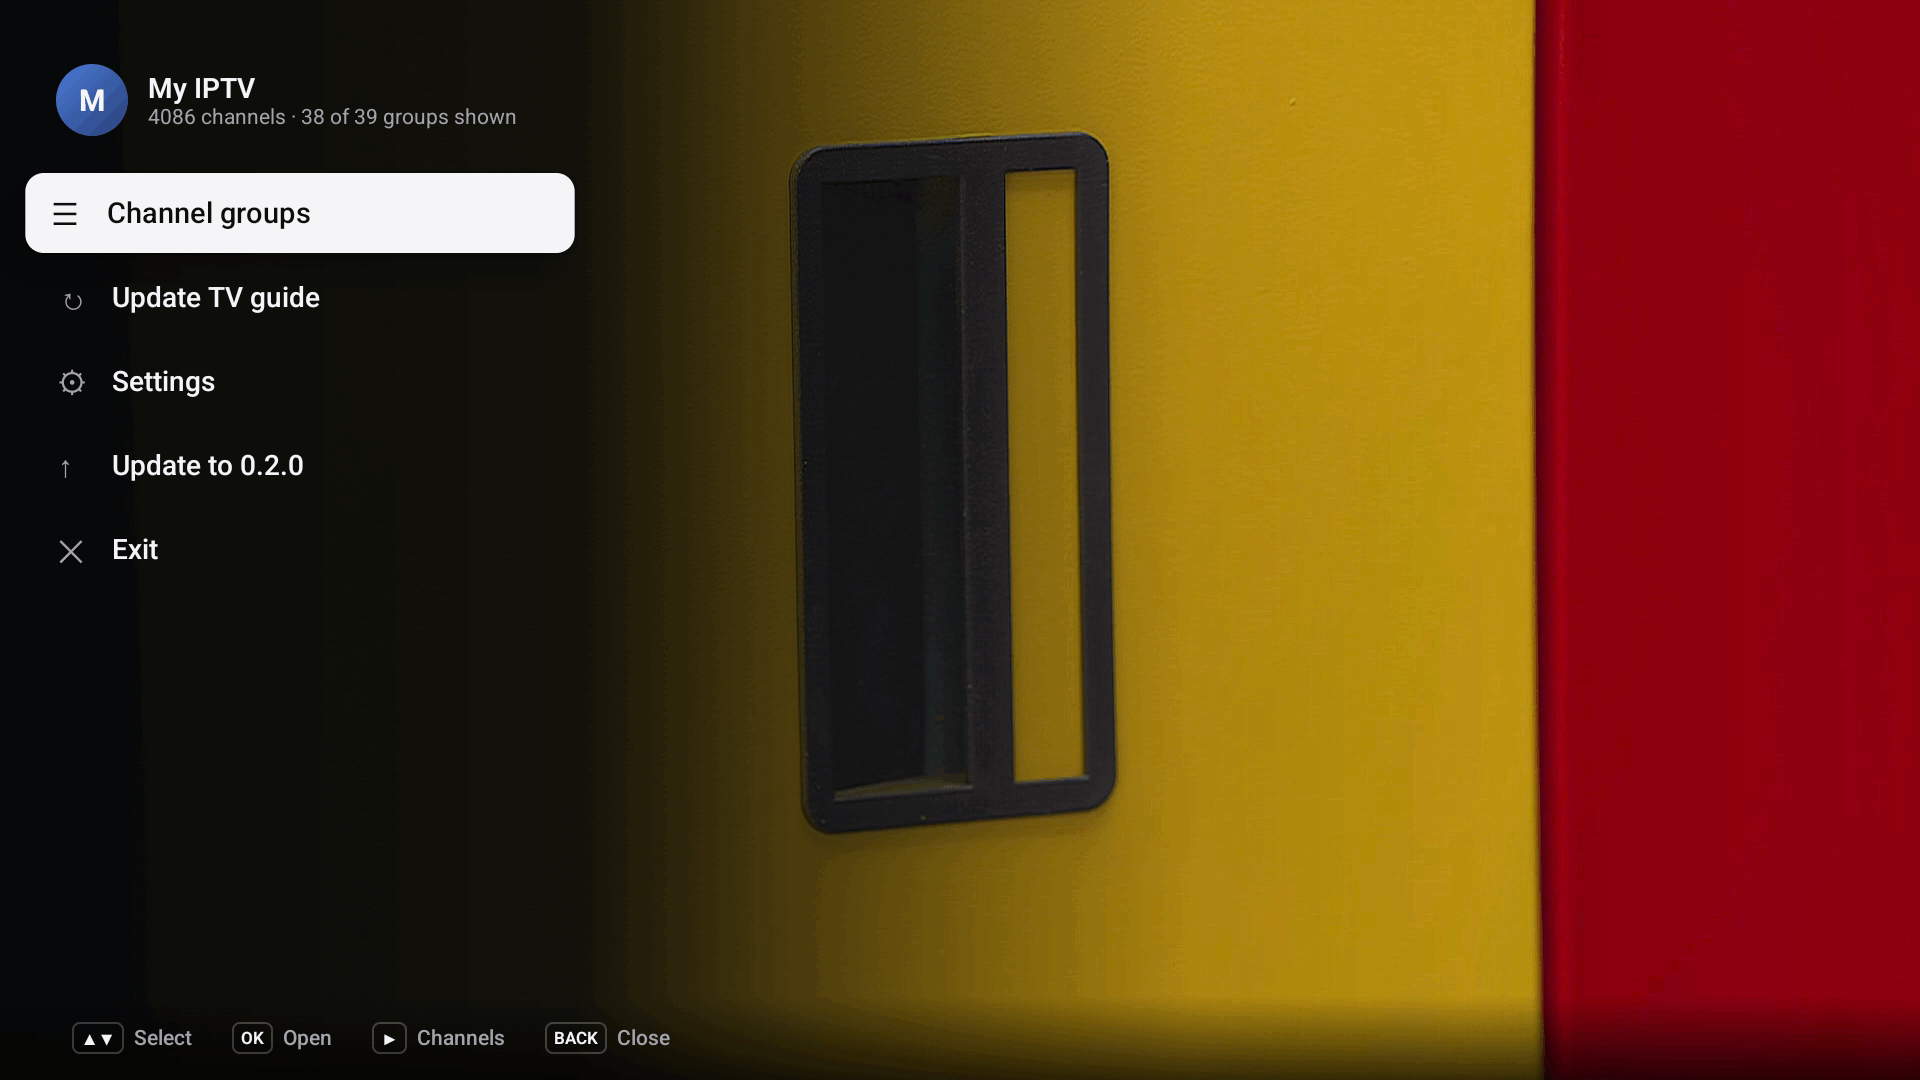
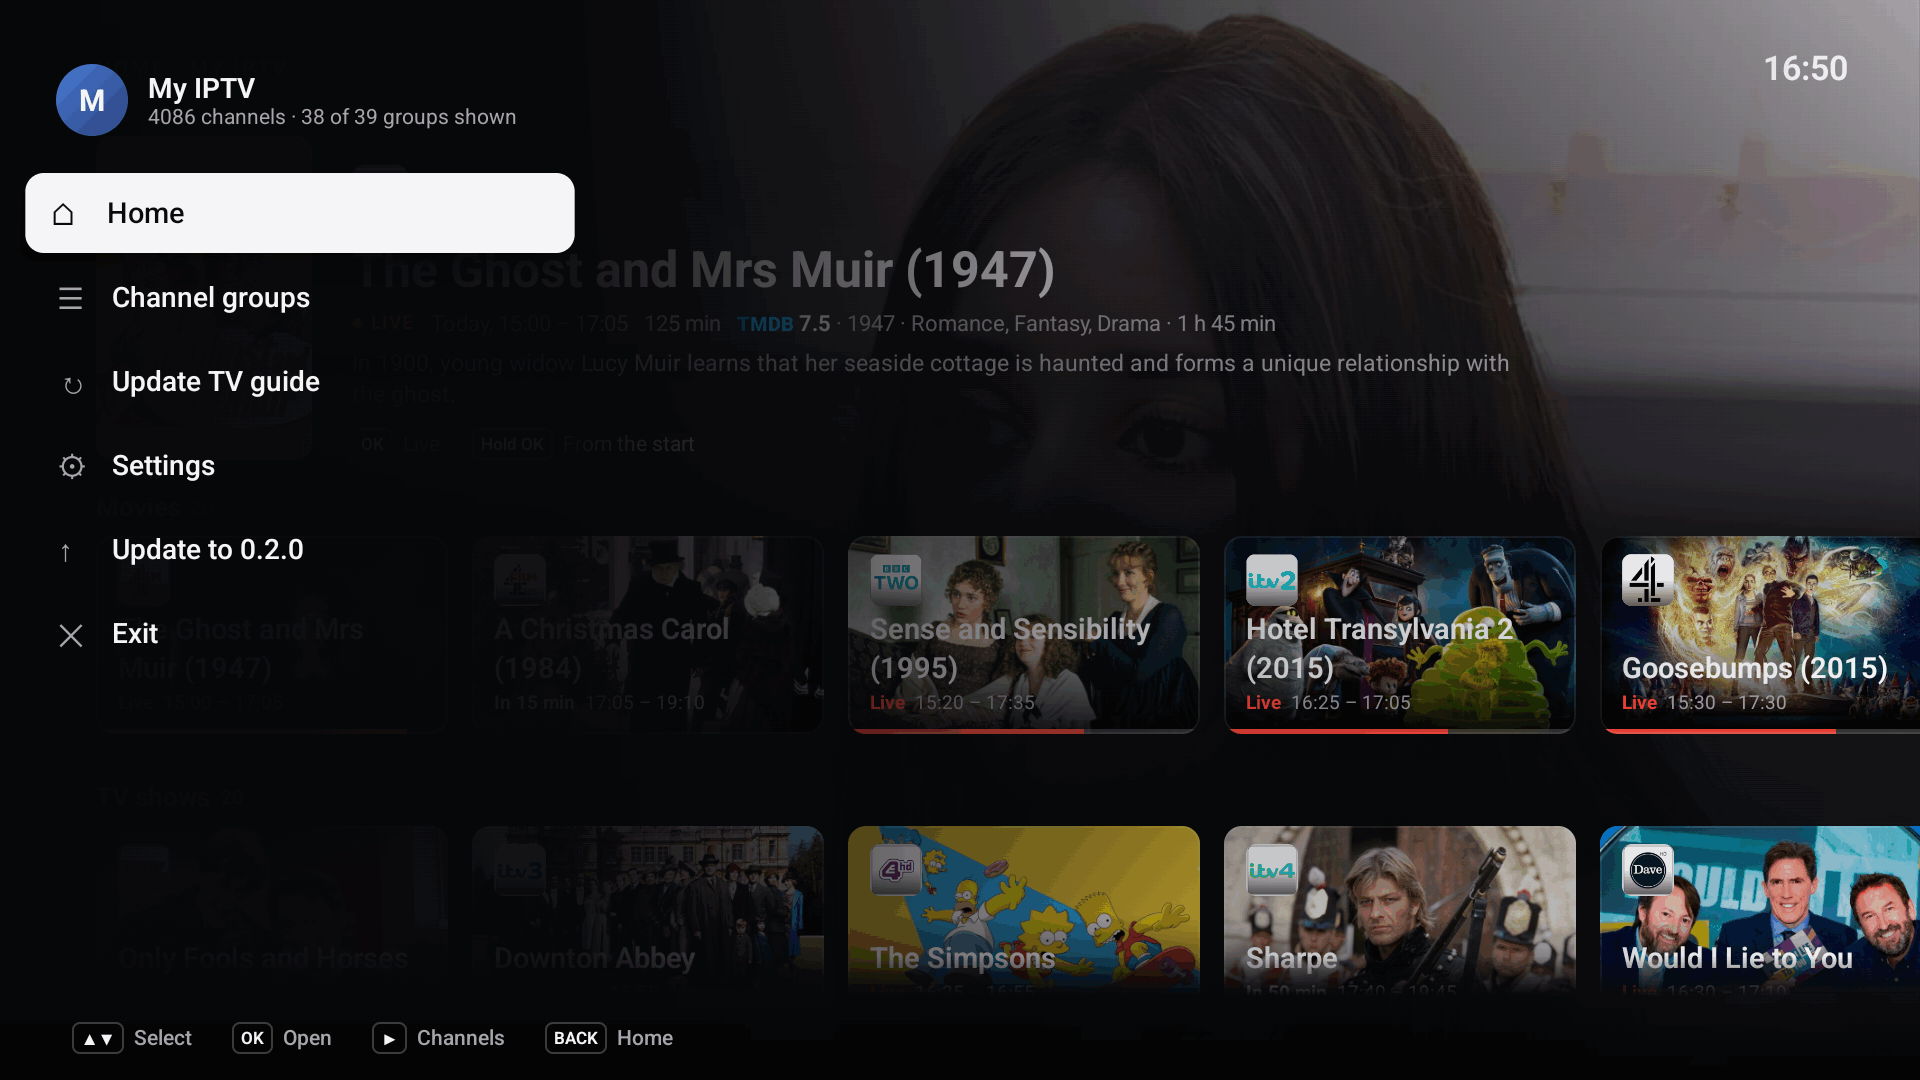
Tests for Home, TMDB matching and deep links; README and screenshots
Unit tests: filler detection and title normalization, the On now, Just
started and Starting soon picks, merging rows while Home is open, deep
link parsing and round trips (ids with slashes, spaces, Cyrillic, %),
and more TMDB cases (an unmarked film title, a show in a film-length
slot).

README: Home, its sources, cards and keys, the start option, TMDB and
the Android TV home screen; BACK now ends at Home; the TMDB key for
local builds and the TIVIBRO_TMDB_TOKEN release secret; TMDB's
attribution. Screenshots of Home (English UI, UK and US channels as
sources), its sources, the main menu with Home, and the TiViBro row on
the Android TV home screen.

diff --git a/app/src/test/java/dev/romirom/tivibro/home/HomeTest.kt b/app/src/test/java/dev/romirom/tivibro/home/HomeTest.kt
@@ -1,0 +1,107 @@
+package dev.romirom.tivibro.home
+
+import dev.romirom.tivibro.data.Channel
+import dev.romirom.tivibro.data.MIN
+import dev.romirom.tivibro.data.Programme
+import org.junit.Assert.assertEquals
+import org.junit.Assert.assertFalse
+import org.junit.Assert.assertTrue
+import org.junit.Test
+
+class HomeTest {
+    private val t = 1_761_900_000_000L
+    private fun ch(id: String) = Channel(id, 1, "Channel $id", "UK", null, 7, "http://x/$id", false)
+    private fun p(fromMin: Int, lenMin: Int, title: String) = Programme(t + fromMin * MIN, t + (fromMin + lenMin) * MIN, title, "")
+
+    // ------------------------------------------------------------------ filler
+
+    @Test fun fillerIsRecognised() {
+        for (s in listOf("Реклама", "РЕКЛАМА", "Телемагазин «Мир покупок»", "Teleshopping", "Paid Programming", "Перерыв в вещании",
+            "Профілактика", "Test card F", "Настроечная таблица", "Нет программы", "No information", "Анонс", "Werbung", "", " - ")) {
+            assertTrue(s, Filler.isFiller(s))
+        }
+    }
+
+    @Test fun realProgrammesAreNotFiller() {
+        for (s in listOf("Новини", "Тест-драйв", "The Test", "Реклама и жизнь: документальный фильм", "Shopping Mall Heist",
+            "Friends", "Перерва на каву", "Анонимный звонок")) {
+            assertFalse(s, Filler.isFiller(s))
+        }
+    }
+
+    @Test fun titlesNormalize() {
+        assertEquals("новости", normTitle("Новости (16+)"))
+        assertEquals("елки 2", normTitle("Ёлки-2"))
+        assertEquals("the office", normTitle("  The   Office [HD] "))
+    }
+
+    // ------------------------------------------------------------------ rows
+
+    @Test fun nowSkipsFillerAndKeepsSourceOrder() {
+        val slots = listOf(
+            Slot(ch("a"), listOf(p(-10, 30, "News"))),
+            Slot(ch("b"), listOf(p(-5, 20, "Реклама"))),
+            Slot(ch("c"), listOf(p(5, 30, "Later"))),
+            Slot(ch("d"), listOf(p(-50, 120, "Film"))),
+        )
+        assertEquals(listOf("News", "Film"), HomePicks.now(slots, t, 10).map { it.p.title })
+    }
+
+    @Test fun startedWantsArchiveLengthAndRecentStart() {
+        val slots = listOf(
+            Slot(ch("a"), listOf(p(-5, 60, "Fresh"))),
+            Slot(ch("b"), listOf(p(-30, 60, "Too old"))),
+            Slot(ch("c"), listOf(p(-3, 10, "Too short"))),
+            Slot(ch("d"), listOf(p(-12, 45, "No archive"))),
+            Slot(ch("e"), listOf(p(-8, 90, "Fresh"))), // the same title elsewhere: once
+            Slot(ch("f"), listOf(p(0, 60, "Just now"))), // under a minute: not yet
+            Slot(ch("g"), listOf(p(-15, 50, "Earlier"))),
+        )
+        val got = HomePicks.started(slots, t, { it.id != "d" }, 10)
+        assertEquals(listOf("Fresh", "Earlier"), got.map { it.p.title })
+        assertEquals("a", got[0].ch.id)
+    }
+
+    @Test fun soonIsWithinHalfAnHourSoonestFirst() {
+        val slots = listOf(
+            Slot(ch("a"), listOf(p(-20, 40, "Now A"), p(20, 30, "Soon A"))),
+            Slot(ch("b"), listOf(p(-10, 15, "Now B"), p(5, 30, "Soon B"))),
+            Slot(ch("c"), listOf(p(-10, 60, "Now C"), p(50, 30, "Too late"))),
+            Slot(ch("d"), listOf(p(-10, 12, "Now D"), p(2, 30, "Реклама"))),
+        )
+        assertEquals(listOf("Soon B", "Soon A"), HomePicks.soon(slots, t, 10).map { it.p.title })
+    }
+
+    @Test fun slotFindsTheProgrammeOnAir() {
+        val s = Slot(ch("a"), listOf(p(-60, 30, "A"), p(-30, 30, "B"), p(0, 30, "C"), p(40, 30, "D")))
+        assertEquals("C", s.at(t)?.title)
+        assertEquals("B", s.at(t - MIN)?.title)
+        assertEquals(null, s.at(t + 35 * MIN))
+    }
+
+    // ------------------------------------------------------------------ merging while Home is open
+
+    private fun card(kind: HomeKind, id: String, title: String = id) = HomeCard("$kind:$id", kind, ch(id), p(0, 30, title))
+
+    @Test fun mergeKeepsPlacesAndAppendsNewCards() {
+        val old = listOf(HomeRow(HomeKind.NOW, listOf(card(HomeKind.NOW, "a"), card(HomeKind.NOW, "b"))))
+        val new = listOf(
+            HomeRow(HomeKind.SOON, listOf(card(HomeKind.SOON, "x"))),
+            HomeRow(HomeKind.NOW, listOf(card(HomeKind.NOW, "c"), card(HomeKind.NOW, "b", "B updated"), card(HomeKind.NOW, "a"))),
+        )
+        val m = HomeRows.merge(old, new, keep = null)
+        assertEquals(listOf(HomeKind.NOW, HomeKind.SOON), m.map { it.kind })
+        assertEquals(listOf("a", "b", "c"), m[0].cards.map { it.ch.id })
+        assertEquals("B updated", m[0].cards[1].p.title)
+    }
+
+    @Test fun mergeKeepsTheFocusedCardThatWentAway() {
+        val old = listOf(HomeRow(HomeKind.STARTED, listOf(card(HomeKind.STARTED, "a"), card(HomeKind.STARTED, "b"))))
+        val new = listOf(HomeRow(HomeKind.STARTED, listOf(card(HomeKind.STARTED, "a"))))
+        assertEquals(listOf("a", "b"), HomeRows.merge(old, new, keep = "STARTED:b")[0].cards.map { it.ch.id })
+        assertEquals(listOf("a"), HomeRows.merge(old, new, keep = null)[0].cards.map { it.ch.id })
+        // a whole row gone: only the focused card stays, until focus leaves it
+        assertEquals(listOf("b"), HomeRows.merge(old, emptyList(), keep = "STARTED:b").single().cards.map { it.ch.id })
+        assertTrue(HomeRows.merge(old, emptyList(), keep = null).isEmpty())
+    }
+}

diff --git a/app/src/test/java/dev/romirom/tivibro/tvhome/DeepLinkTest.kt b/app/src/test/java/dev/romirom/tivibro/tvhome/DeepLinkTest.kt
@@ -1,0 +1,49 @@
+package dev.romirom.tivibro.tvhome
+
+import org.junit.Assert.assertEquals
+import org.junit.Assert.assertNull
+import org.junit.Test
+
+class DeepLinkTest {
+    @Test fun home() {
+        assertEquals(DeepLink.Home, DeepLink.parse("tivibro://home"))
+        assertEquals(DeepLink.Home, DeepLink.parse("TIVIBRO://HOME"))
+        assertNull(DeepLink.parse("tivibro://home/extra"))
+    }
+
+    @Test fun live() {
+        assertEquals(DeepLink.Live("1", "ch1014"), DeepLink.parse("tivibro://live/1/ch1014"))
+        assertNull(DeepLink.parse("tivibro://live/1"))
+        assertNull(DeepLink.parse("tivibro://live/1/ch1/more"))
+    }
+
+    @Test fun archive() {
+        assertEquals(DeepLink.Archive("1", "ch5", 1761900000000, 540000), DeepLink.parse("tivibro://archive/1/ch5/1761900000000?position=540000"))
+        assertEquals(DeepLink.Archive("1", "ch5", 1761900000000, 0), DeepLink.parse("tivibro://archive/1/ch5/1761900000000"))
+        assertNull(DeepLink.parse("tivibro://archive/1/ch5/notanumber"))
+        assertNull(DeepLink.parse("tivibro://archive/1/ch5/-5"))
+        assertNull(DeepLink.parse("tivibro://archive/1/ch5/1761900000000?position=abc"))
+        assertNull(DeepLink.parse("tivibro://archive/1/ch5/1761900000000?position=-1"))
+    }
+
+    @Test fun anythingElseIsRejected() {
+        assertNull(DeepLink.parse(null))
+        assertNull(DeepLink.parse(""))
+        assertNull(DeepLink.parse("https://home"))
+        assertNull(DeepLink.parse("tivibro://settings"))
+        assertNull(DeepLink.parse("tivibro://live/1/" + "x".repeat(300)))
+        assertNull(DeepLink.parse("tivibro://live/1/%"))
+        assertNull(DeepLink.parse("not a uri at all"))
+    }
+
+    @Test fun idsSurviveTheRoundTrip() {
+        // channel ids are tvg-ids: any string, made-up ones start with «n:»
+        for (l in listOf(
+            DeepLink.Live("a1b2", "n:BBC One HD"),
+            DeepLink.Live("7", "ch/with slash & ampersand"),
+            DeepLink.Archive("7", "Канал+1", 1761900000000, 1234),
+            DeepLink.Archive("7", "100%", 1761900000000, 0),
+            DeepLink.Home,
+        )) assertEquals(l, DeepLink.parse(l.uri()))
+    }
+}

diff --git a/README.md b/README.md
@@ -10,6 +10,11 @@ back to English.
 
 ## Features
 
+- **Home.** A glass page over the playing video: continue watching, what is on now, what has just started (watch it
+  from the beginning), what starts soon, and movies and TV shows with posters, ratings and genres from TMDB. You pick
+  which groups or channels feed it. See [Home](#home).
+- **On the Android TV home screen.** A «TiViBro» channel with what to continue and what is on now, and unfinished
+  archive programmes in Play Next (Android 8 and newer).
 - **Catch-up first.** Pause live TV, rewind, jump to the start of the current programme, or open any programme from
   the archive in the guide. Seeking speeds up the longer you hold the key (10 s, 30 s, 1 min, 5 min).
 - **Continue watching.** Archive programmes you leave halfway are remembered per playlist. Resume, restart, remove
@@ -30,12 +35,24 @@ back to English.
 
 <table>
   <tr>
+    <td width="50%"><a href="docs/screenshots/home.png"><img src="docs/screenshots/home.png" alt="Home"></a><br>Home over the playing video: continue watching, on now</td>
+    <td width="50%"><a href="docs/screenshots/home-just-started.png"><img src="docs/screenshots/home-just-started.png" alt="Home: just started"></a><br>Just started: OK plays it from the beginning</td>
+  </tr>
+  <tr>
+    <td><a href="docs/screenshots/home-movies.png"><img src="docs/screenshots/home-movies.png" alt="Home: movies and TV shows"></a><br>Movies and TV shows on your channels, with TMDB posters and ratings</td>
+    <td><a href="docs/screenshots/home-sources.png"><img src="docs/screenshots/home-sources.png" alt="Home sources"></a><br>Home sources: the groups Home takes its programmes from</td>
+  </tr>
+  <tr>
+    <td><a href="docs/screenshots/home-source-channels.png"><img src="docs/screenshots/home-source-channels.png" alt="Home sources: channels of a group"></a><br>Or single channels of a group</td>
+    <td><a href="docs/screenshots/android-tv-home.png"><img src="docs/screenshots/android-tv-home.png" alt="TiViBro on the Android TV home screen"></a><br>The TiViBro channel on the Android TV home screen</td>
+  </tr>
+  <tr>
     <td width="50%"><a href="docs/screenshots/channel-list.png"><img src="docs/screenshots/channel-list.png" alt="Channel list"></a><br>Channel list of a group, with what is on now and next</td>
     <td width="50%"><a href="docs/screenshots/programme-view.png"><img src="docs/screenshots/programme-view.png" alt="Programme view"></a><br>Programme view: days, programmes and an archive programme ready to watch</td>
   </tr>
   <tr>
     <td><a href="docs/screenshots/player.png"><img src="docs/screenshots/player.png" alt="Player panel"></a><br>Player panel: timeline, restart, previous and next programme, back to live</td>
-    <td><a href="docs/screenshots/main-menu.png"><img src="docs/screenshots/main-menu.png" alt="Main menu"></a><br>Main menu</td>
+    <td><a href="docs/screenshots/main-menu.png"><img src="docs/screenshots/main-menu.png" alt="Main menu"></a><br>Main menu, with Home first; BACK here opens Home</td>
   </tr>
   <tr>
     <td><a href="docs/screenshots/settings.png"><img src="docs/screenshots/settings.png" alt="Settings"></a><br>Settings, with interface size and language</td>
@@ -97,16 +114,77 @@ Each playlist picks its guide in Settings > TV guide:
 XMLTV files are imported again every 12 hours; the segmented guide is checked every 3 hours and just after midnight.
 Downloads are throttled and pause while you use the remote or while the stream is buffering.
 
+## Home
+
+Home is a layer over the video, which keeps playing behind it. Open it from the main menu ("Home", the first item), or
+press BACK in the main menu. Its rows, top to bottom (a row with nothing in it is left out):
+
+- **Continue watching**: archive programmes you stopped in, on any channel of the playlist, newest first, while they are
+  still in the archive.
+- **On now**: what is on the Home sources now.
+- **Just started: watch from the beginning**: programmes that started in the last 20 minutes on channels with an
+  archive, at least 20 minutes long. Ads, teleshopping, breaks and test cards are left out, and the same title shows
+  once.
+- **Starting soon**: what starts in the next 30 minutes.
+- **Movies** and **TV shows**: programmes on now or later today that TMDB recognises, with poster, rating, year and
+  genres; what is on now or within the hour first, then by rating.
+
+**Sources.** Home reads the guide only of the channels you pick: Settings > Home page > Sources lists the playlist's
+groups with how much of each is picked ("all 98", "5 of 87"). OK or ▶ on a group opens its channels, with tick boxes
+and "All channels of the group" (which also takes channels the provider adds to the group later). Sources are kept per
+playlist. Until you pick some, Home shows only Continue watching and a "Choose sources" button. Home reads at most 300
+source channels, in the background, a chunk at a time; rows fill in while Home is open.
+
+**Cards.** The focused card is the lit one, and its details are above the rows: the full title, channel, time, TMDB
+rating, year and genres, a short description, and what OK does. OK plays a live programme live, a past one from the
+archive (resuming where you stopped), and «Just started» from the beginning; on a programme still to come it says when
+it starts. Hold OK for the watch options of a bookmark, to start a live programme from the beginning, or the channel
+menu.
+
+**On start.** Settings > On start chooses between the last channel (the default) and Home. A playlist that has no last
+channel yet (its first start) opens on Home.
+
+**TMDB.** Movies, TV shows and pictures need a TMDB key. Release builds come with one; otherwise, or to use your own,
+Settings > Home page > Your own TMDB key takes an API Read Access Token from
+[themoviedb.org](https://www.themoviedb.org/settings/api), typed on your phone through the QR page ("-" goes back to
+the built-in key). "Posters and descriptions from TMDB" turns it all off. Matching is strict: a programme gets a
+picture only when its title, kind (film or series, from «х/ф», «т/с», episode numbers) and year agree with TMDB, since
+a wrong poster is worse than none.
+
+### On the Android TV home screen
+
+On Android 8 and newer, TiViBro adds a «TiViBro» channel to the launcher with up to 12 programmes: what to continue
+first, then what is on now on the Home sources. Unfinished archive programmes also go to Play Next (Watch Next) with
+their progress; finished ones and those that left the archive are removed. Opening one starts it in TiViBro: a live
+programme live, an archive programme where you stopped (or live, with a note, when it has left the archive). The row is
+updated when your bookmarks change, when you leave the app and every 45 minutes, from what the app saved; only
+titles, times and pictures are shared with the launcher, never stream links.
+
+The links it uses can also be opened by other apps: `tivibro://home`, `tivibro://live/{playlist}/{channel}` and
+`tivibro://archive/{playlist}/{channel}/{start ms}?position={ms}`.
+
 ## Remote control
 
 BACK always goes one level up, in the same order everywhere:
 
 ```
-playback  >  programme view  >  channel list  >  groups  >  main menu  >  playback
+playback  >  programme view  >  channel list  >  groups  >  main menu  >  Home  >  playback
 ```
 
 Sheets and dialogs close back to the level they were opened from. BACK on the player panel only hides the panel.
 "Exit" in the main menu closes the app.
+
+### Home
+
+| Key | Action |
+| --- | --- |
+| ◀ ▶ | Previous / next card (◀ on the first card opens the main menu) |
+| ▲ ▼ | Previous / next row; each row remembers its card. CH+ / CH- jump to the first / last row |
+| OK | Watch, resume, or from the beginning (Just started); a programme still to come says when it starts |
+| Hold OK | Watch options of a bookmark; from the beginning of a live programme; channel menu of one to come |
+| RED | Favourite |
+| MENU | Main menu |
+| BACK | Back to playback |
 
 ### Plain playback
 
@@ -170,6 +248,10 @@ Requirements: JDK 17 and the Android SDK (API 35). Point `local.properties` at t
 ./gradlew assembleRelease      # minified release build
 ```
 
+The TMDB key built into the APK (see [Home](#home)) is read from the Gradle property `tmdbToken`, else the
+`TIVIBRO_TMDB_TOKEN` environment variable, else the file `~/.config/tivibro/tmdb_token`; without any of them the build
+has no key and users can add their own. It is a TMDB API Read Access Token (v4). Keep it out of the repository.
+
 A debug build accepts a playlist from adb, which is handy on an emulator:
 
 ```sh
@@ -196,7 +278,7 @@ Never commit the keystore or its passwords; `.gitignore` already keeps `*.jks`, 
 
 ### One-time setup
 
-Add four repository secrets under Settings > Secrets and variables > Actions on GitHub, taken from
+Add the repository secrets under Settings > Secrets and variables > Actions on GitHub, taken from
 `~/.config/tivibro/` on the machine that holds the release key:
 
 | Secret | Value |
@@ -205,6 +287,7 @@ Add four repository secrets under Settings > Secrets and variables > Actions on 
 | `TIVIBRO_KEYSTORE_PASSWORD` | `storePassword` from `keystore.properties` |
 | `TIVIBRO_KEY_ALIAS` | `keyAlias` from `keystore.properties` |
 | `TIVIBRO_KEY_PASSWORD` | `keyPassword` from `keystore.properties` |
+| `TIVIBRO_TMDB_TOKEN` | optional: the TMDB API Read Access Token built into releases |
 
 With the GitHub CLI, from the repository directory:
 
@@ -214,6 +297,7 @@ gh secret set TIVIBRO_KEYSTORE_BASE64 -R romirom11/TiViBro < release.jks.base64
 gh secret set TIVIBRO_KEYSTORE_PASSWORD -R romirom11/TiViBro --body "$(sed -n 's/^storePassword=//p' keystore.properties)"
 gh secret set TIVIBRO_KEY_ALIAS -R romirom11/TiViBro --body "$(sed -n 's/^keyAlias=//p' keystore.properties)"
 gh secret set TIVIBRO_KEY_PASSWORD -R romirom11/TiViBro --body "$(sed -n 's/^keyPassword=//p' keystore.properties)"
+gh secret set TIVIBRO_TMDB_TOKEN -R romirom11/TiViBro < tmdb_token
 ```
 
 Keep a backup of `~/.config/tivibro/` somewhere safe. Android only accepts an update signed with the same key, so if
@@ -282,4 +366,8 @@ TiViBro is free software under the [GNU General Public License v3.0](LICENSE).
 
 The GPL is required because the app bundles the FFmpeg audio decoder from
 [jellyfin-androidx-media](https://github.com/jellyfin/jellyfin-androidx-media), which is GPL-3.0. Other libraries
-(AndroidX Media3, Jetpack Compose, OkHttp, Coil, ZXing) are under the Apache License 2.0.
+(AndroidX Media3, Jetpack Compose, AndroidX TV Provider and WorkManager, OkHttp, Coil, ZXing) are under the Apache
+License 2.0.
+
+Posters, ratings and descriptions come from [TMDB](https://www.themoviedb.org). This product uses the TMDB API but is
+not endorsed or certified by TMDB.
